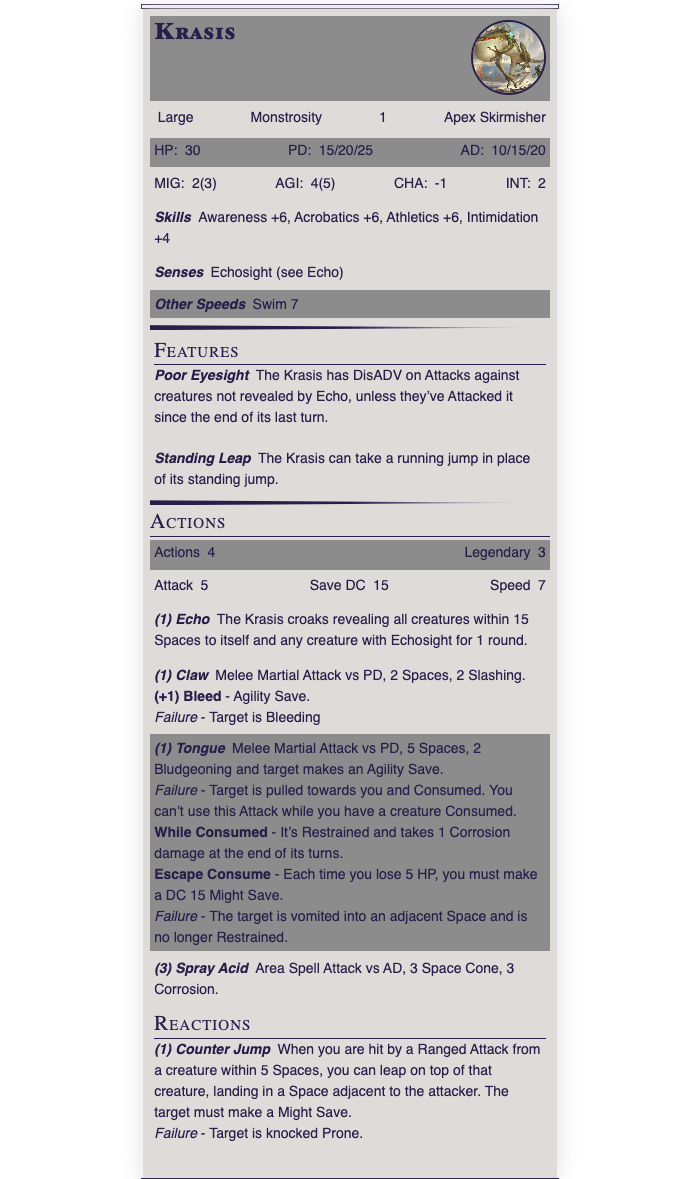
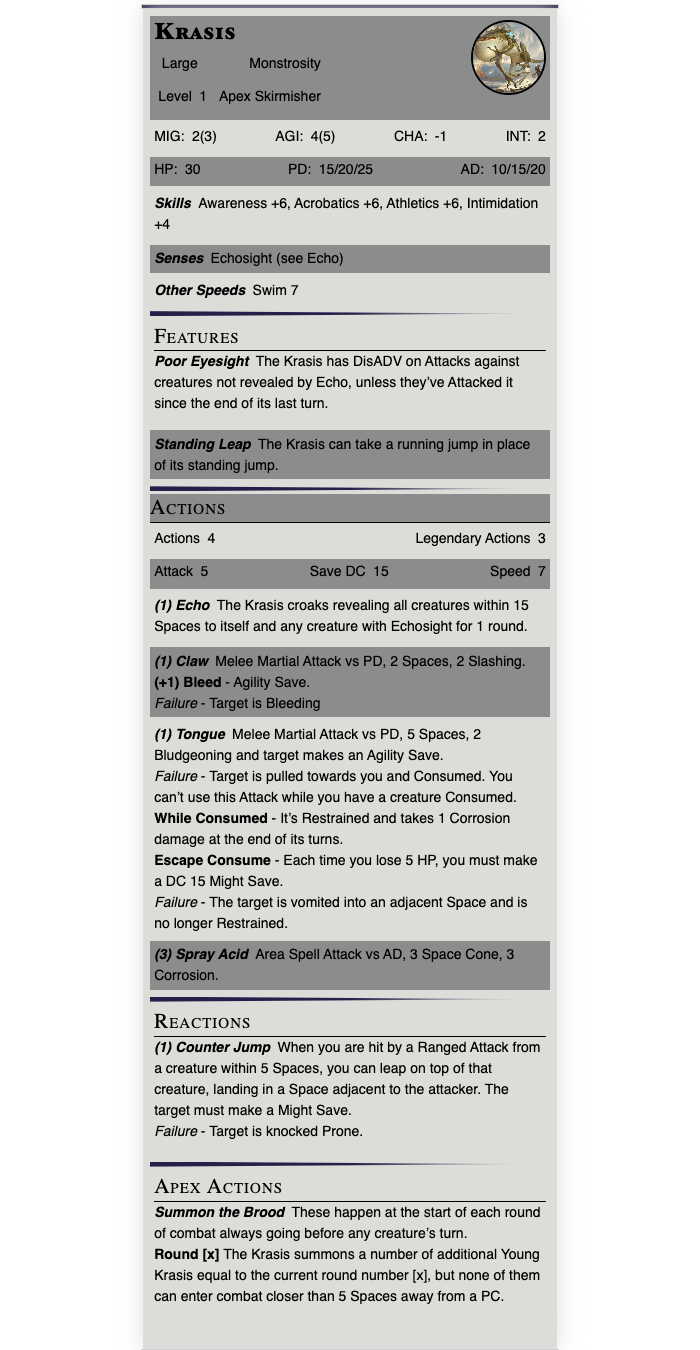
Updated template with size, level and a few other misc items. Fixed small formatting issues

Changed region(s): [[0.21, 0.0, 0.81, 0.9771]]

diff --git a/obsidian/DC20 Adversary Template.md b/obsidian/DC20 Adversary Template.md
@@ -1,0 +1,47 @@
+
+```statblock
+layout: DC20 Adversary
+name: Adversary
+image: [[DC20Logo.png]]
+size: Medium
+type: Beast
+level: 3
+archetype: Humanoid
+hp: 13
+pd: 2/2/2
+ad: 10/10/10
+mig: 3
+agi: 3
+cha: 0
+int: 0
+characteristics: 
+- name: Skills
+  desc: Awareness +3, Stealth +2, Trickery+5
+- name: Languages
+  desc: Elvish
+- name: Other
+  desc: Stuff
+features:
+- name: Umbral Susceptability
+  desc: "When you take umbral damage you have disADV on next attack"
+- name: Devout
+  desc: "You have ADV on saves against being charmed or possessed"
+actions: 4
+legendary_actions: 2
+attack: +4
+save_dc: 16
+speed: 5
+attacks_spells:
+  - name: Radiant Flame(1)
+    desc: "Ranged Spell attack vs PD 10 spaces, 1 Radiant"
+  - name: Bite
+    desc: "Melee Martial Attack vs PD, 1 Piercing"
+reactions:
+  - name: Reaction
+    desc: "Reacts in a way"
+  - name: Another Reaction
+    desc: "Reacts in a different way"
+apex_actions:
+ - name: Apex
+   desc: Action
+```

diff --git a/obsidian/readme.md b/obsidian/readme.md
@@ -3,7 +3,8 @@ A location for anything related to obsidian
 
 ### DC20 Statblock
 I've been playing with the Fantasy stat block plug in and created a simple statblock for DC20. 
-- DC20.json: The file to import into your Obsidian vault
+- DC20 Adversary.json: The file to import into your Obsidian vault
+- DC20 Adversary Template.md: My template to use for creating new Obsidian page.
 - krasis.yaml: An example of the statblock using an animal from The Hunted free one-shot
 - Krasis.png: How the statblock looks when rednderd in Obsidian
 
